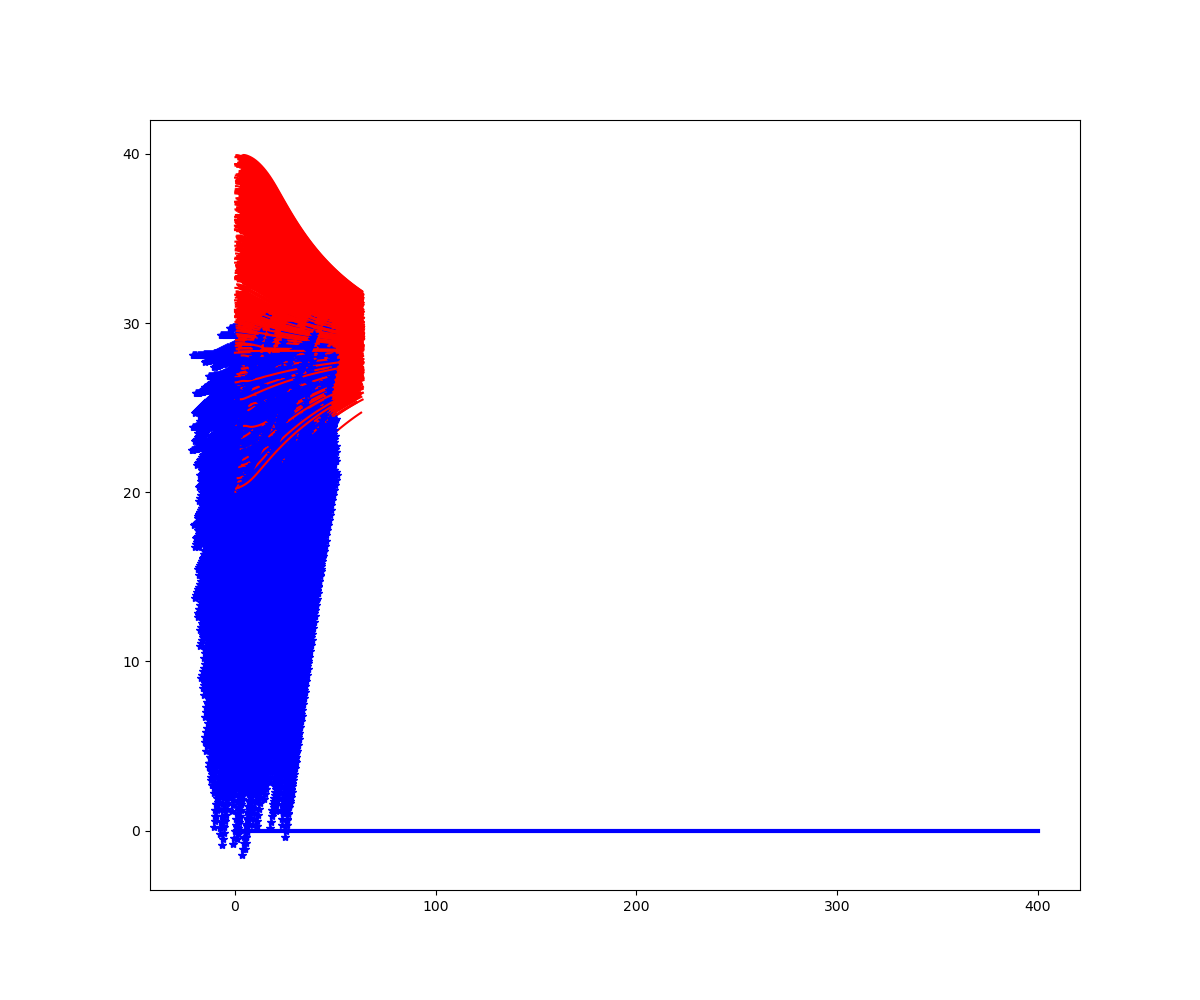
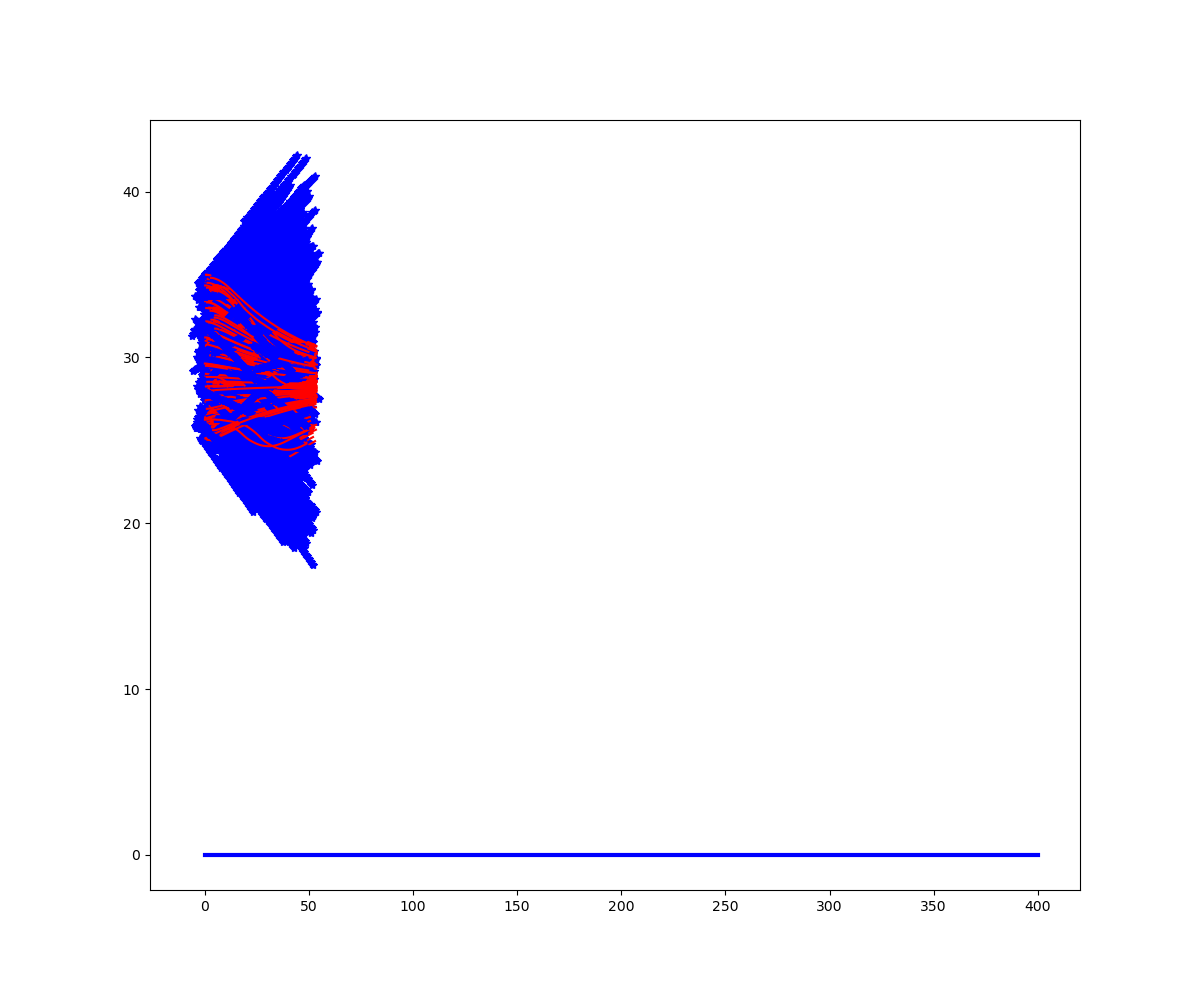
Updated safe and unsafe conditions

diff --git a/plotTrajectories.py b/plotTrajectories.py
@@ -109,15 +109,15 @@ def main(argv):
     
     model = models.load_model(input_filename)
 
-    y_pos = [25, 35]
-    heading = [math.radians(-10), math.radians(10)]
-    episode_length = 130
+    y_pos = [35, 40]
+    heading = [math.radians(-5), math.radians(5)]
+    episode_length = 50
 
     # obs_pos_x = [25, 30]
     # obs_pos_y = [30, 35]
-    distance = [20, 50]
+    distance = [45, 50]
     obs_vel = 0.514
-    obs_radius = 0.5
+    obs_radius = 1.0
 
     parameters = {'y_pos': y_pos, 
                   'heading': heading,
@@ -154,7 +154,7 @@ def main(argv):
     allXObs = []
     allYObs = []
 
-    numTrajectories = 10
+    numTrajectories = 1000
     collisions = []
     fails = []
 
@@ -214,7 +214,7 @@ def main(argv):
     with open('collisions_2', 'wb') as fp:
         pickle.dump(collisions, fp)
 
-    with open('fails_1', 'wb') as fp:
+    with open('fails_2', 'wb') as fp:
         pickle.dump(fails, fp)
 
     #w.plot_lidar()
